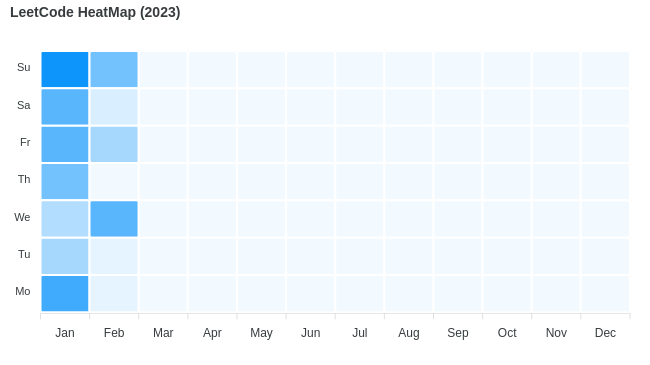
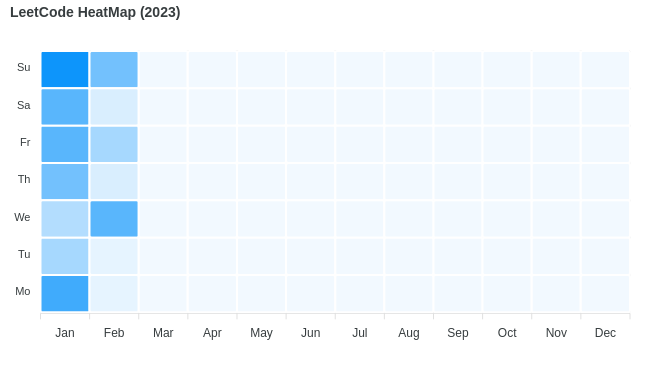
update heatmap.png

Changed region(s): [[0.1231, 0.4521, 0.2154, 0.5425]]

diff --git a/README.md b/README.md
@@ -4,7 +4,7 @@
 
 Collection of LeetCode questions to ace the coding interview! - Created using [LeetHub](https://github.com/QasimWani/LeetHub)
 
-> Questions solved 299 uniq: 109
+> Questions solved 301 uniq: 109
 
 ## Contribution 
 
